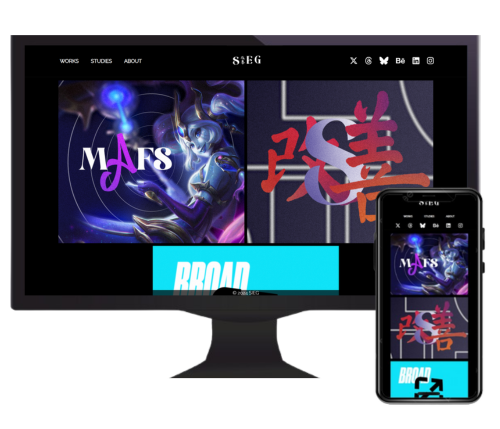
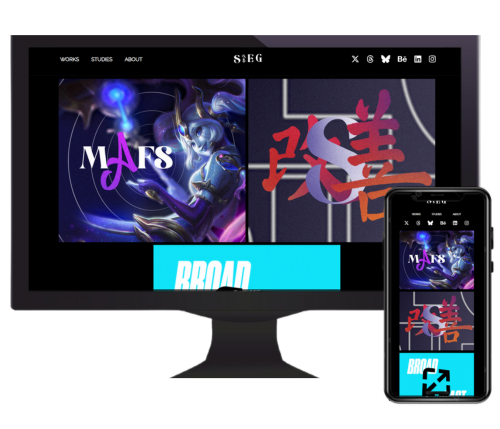
Colocado imagem dos projetos

diff --git a/index.html b/index.html
@@ -185,7 +185,7 @@
                 </button>
 
                 <button class="project">
-                    <img src="./src/images/projeto-sieg.png" alt="">
+                    <img src="./src/images/projeto-landing-page.png" alt="">
 
                 
                     
